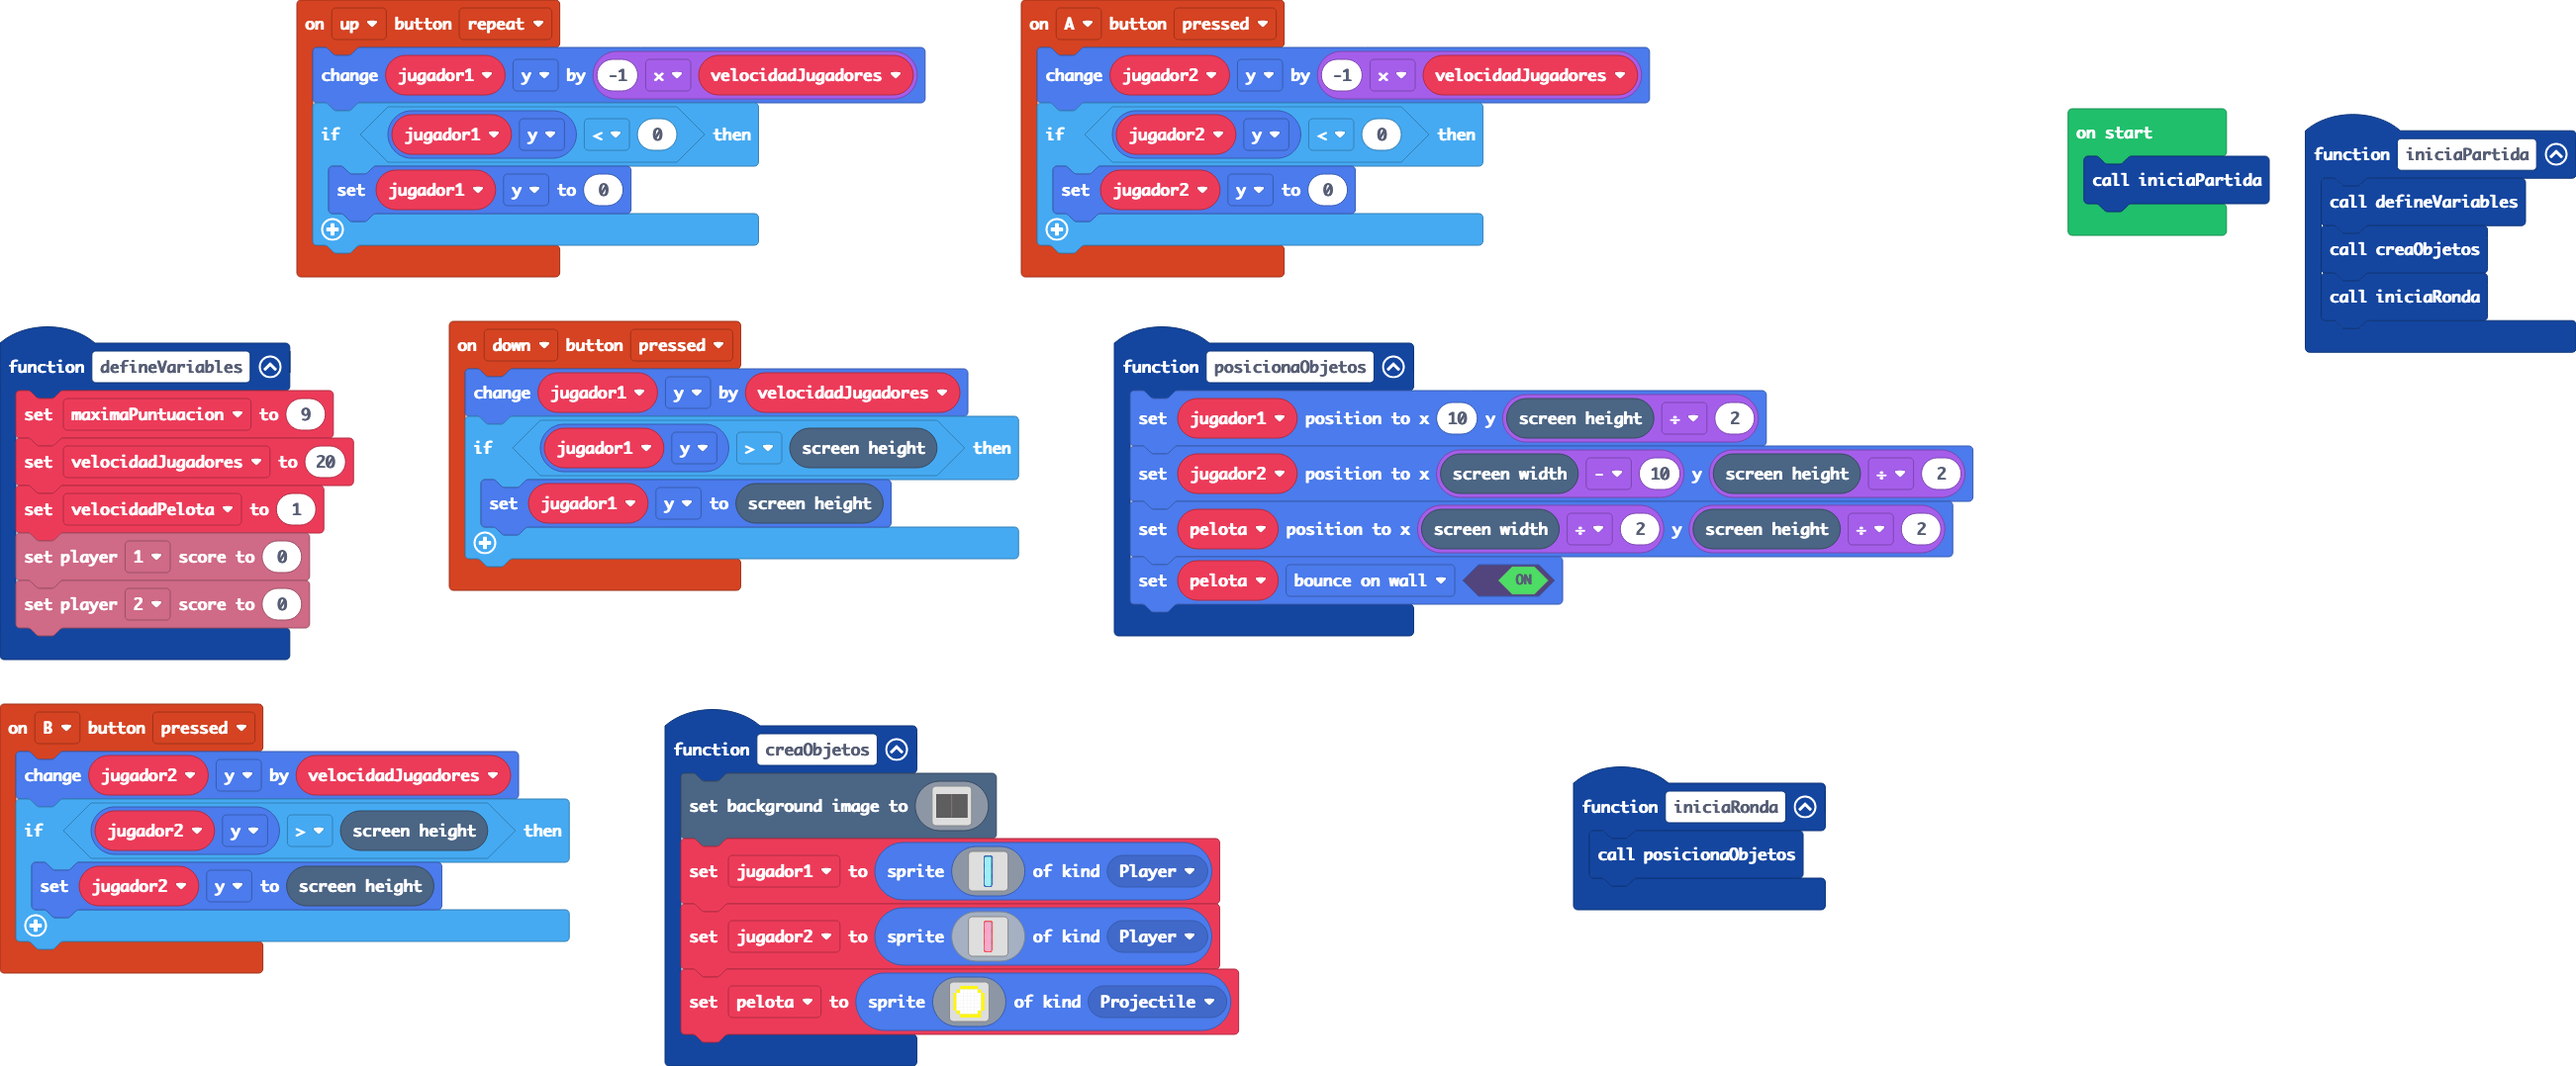
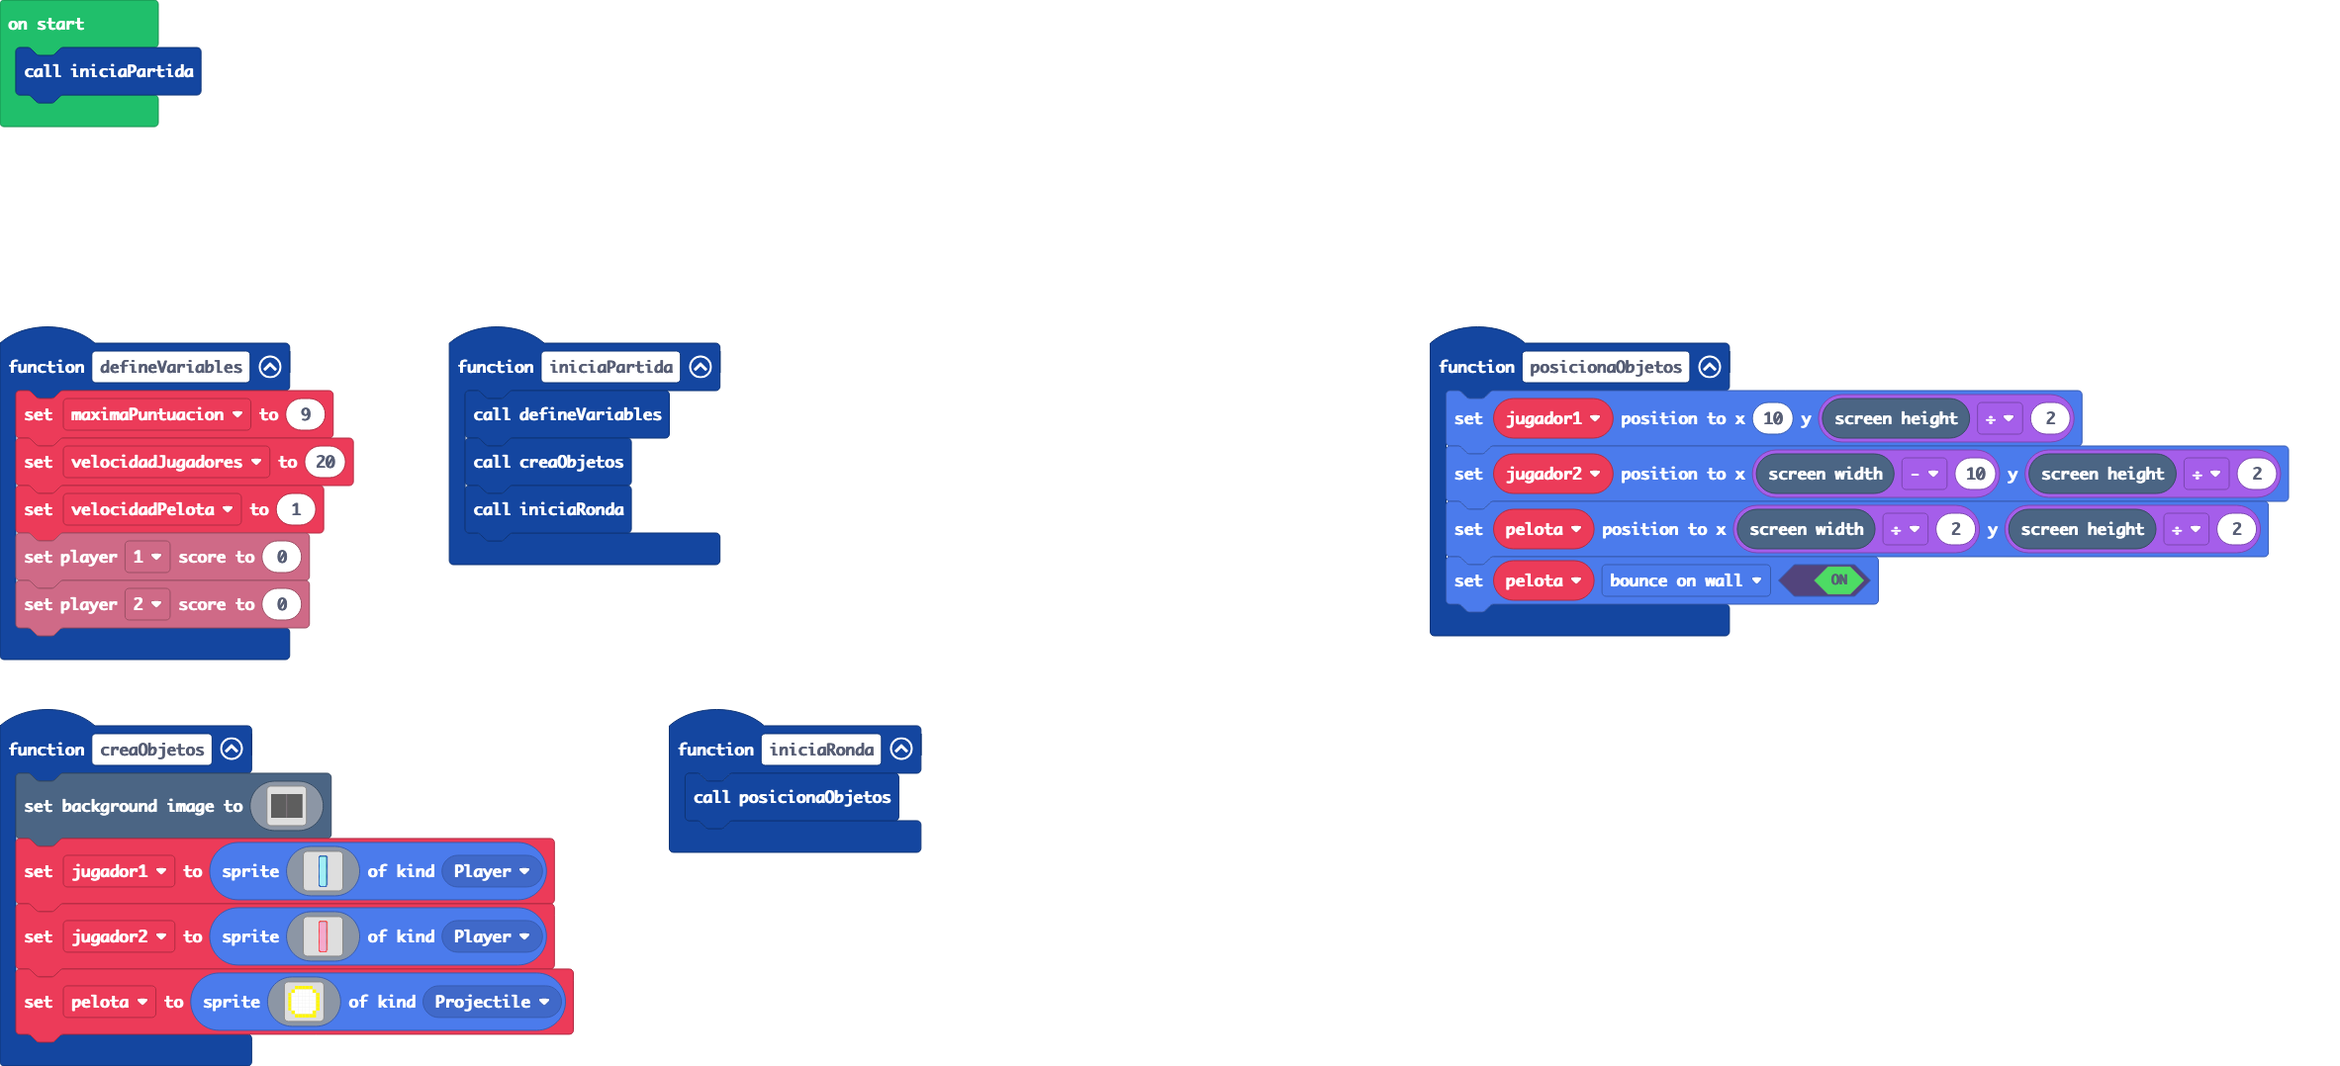
eventos eliminados

diff --git a/main.ts b/main.ts
@@ -1,24 +1,6 @@
 function iniciaRonda () {
     posicionaObjetos()
 }
-controller.B.onEvent(ControllerButtonEvent.Pressed, function () {
-    jugador2.y += velocidadJugadores
-    if (jugador2.y > scene.screenHeight()) {
-        jugador2.y = scene.screenHeight()
-    }
-})
-controller.up.onEvent(ControllerButtonEvent.Repeated, function () {
-    jugador1.y += -1 * velocidadJugadores
-    if (jugador1.y < 0) {
-        jugador1.y = 0
-    }
-})
-controller.A.onEvent(ControllerButtonEvent.Pressed, function () {
-    jugador2.y += -1 * velocidadJugadores
-    if (jugador2.y < 0) {
-        jugador2.y = 0
-    }
-})
 function defineVariables () {
     maximaPuntuacion = 9
     velocidadJugadores = 20
@@ -31,12 +13,6 @@ function iniciaPartida () {
     creaObjetos()
     iniciaRonda()
 }
-controller.down.onEvent(ControllerButtonEvent.Pressed, function () {
-    jugador1.y += velocidadJugadores
-    if (jugador1.y > scene.screenHeight()) {
-        jugador1.y = scene.screenHeight()
-    }
-})
 function creaObjetos () {
     scene.setBackgroundImage(img`
         ffffffffffffffffffffffffffffffffffffffffffffffffffffffffffffffffffffffffffffffffffffffffffffffffffffffffffffffffffffffffffffffffffffffffffffffffffffffffffffffff
@@ -253,9 +229,9 @@ function posicionaObjetos () {
     pelota.setFlag(SpriteFlag.BounceOnWall, true)
 }
 let pelota: Sprite = null
-let velocidadPelota = 0
-let maximaPuntuacion = 0
-let jugador1: Sprite = null
-let velocidadJugadores = 0
 let jugador2: Sprite = null
+let jugador1: Sprite = null
+let velocidadPelota = 0
+let velocidadJugadores = 0
+let maximaPuntuacion = 0
 iniciaPartida()
